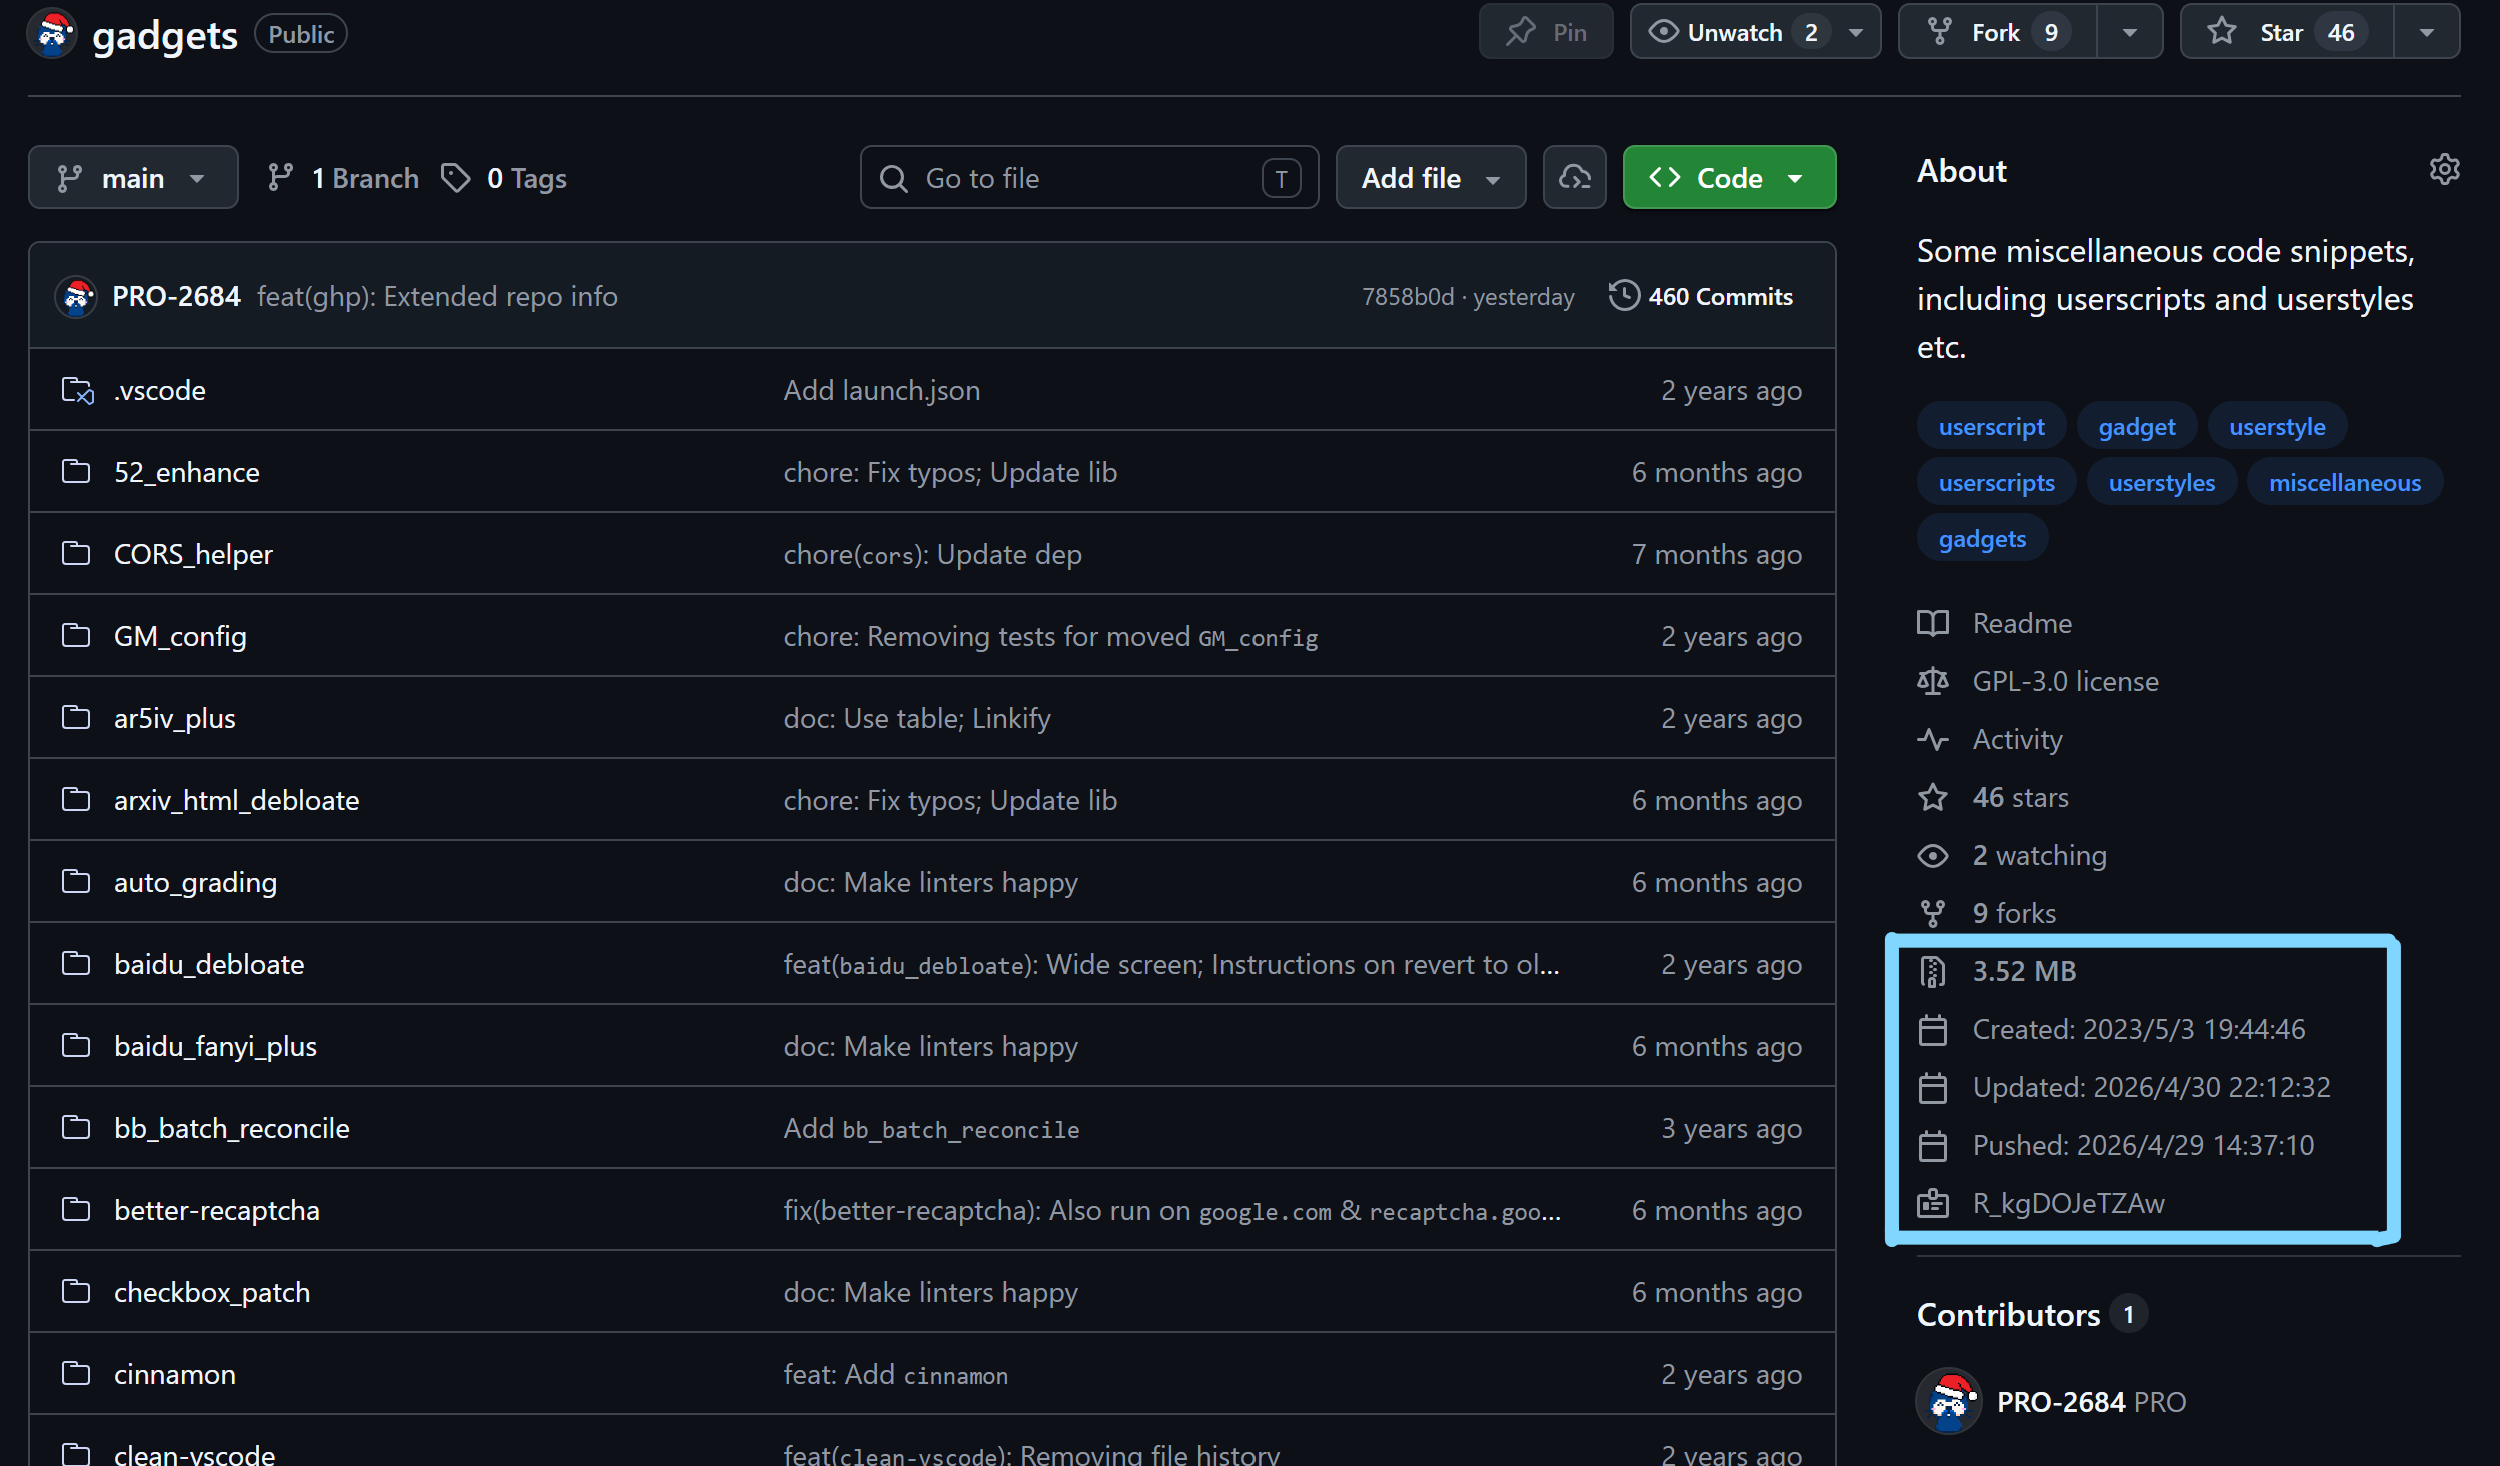
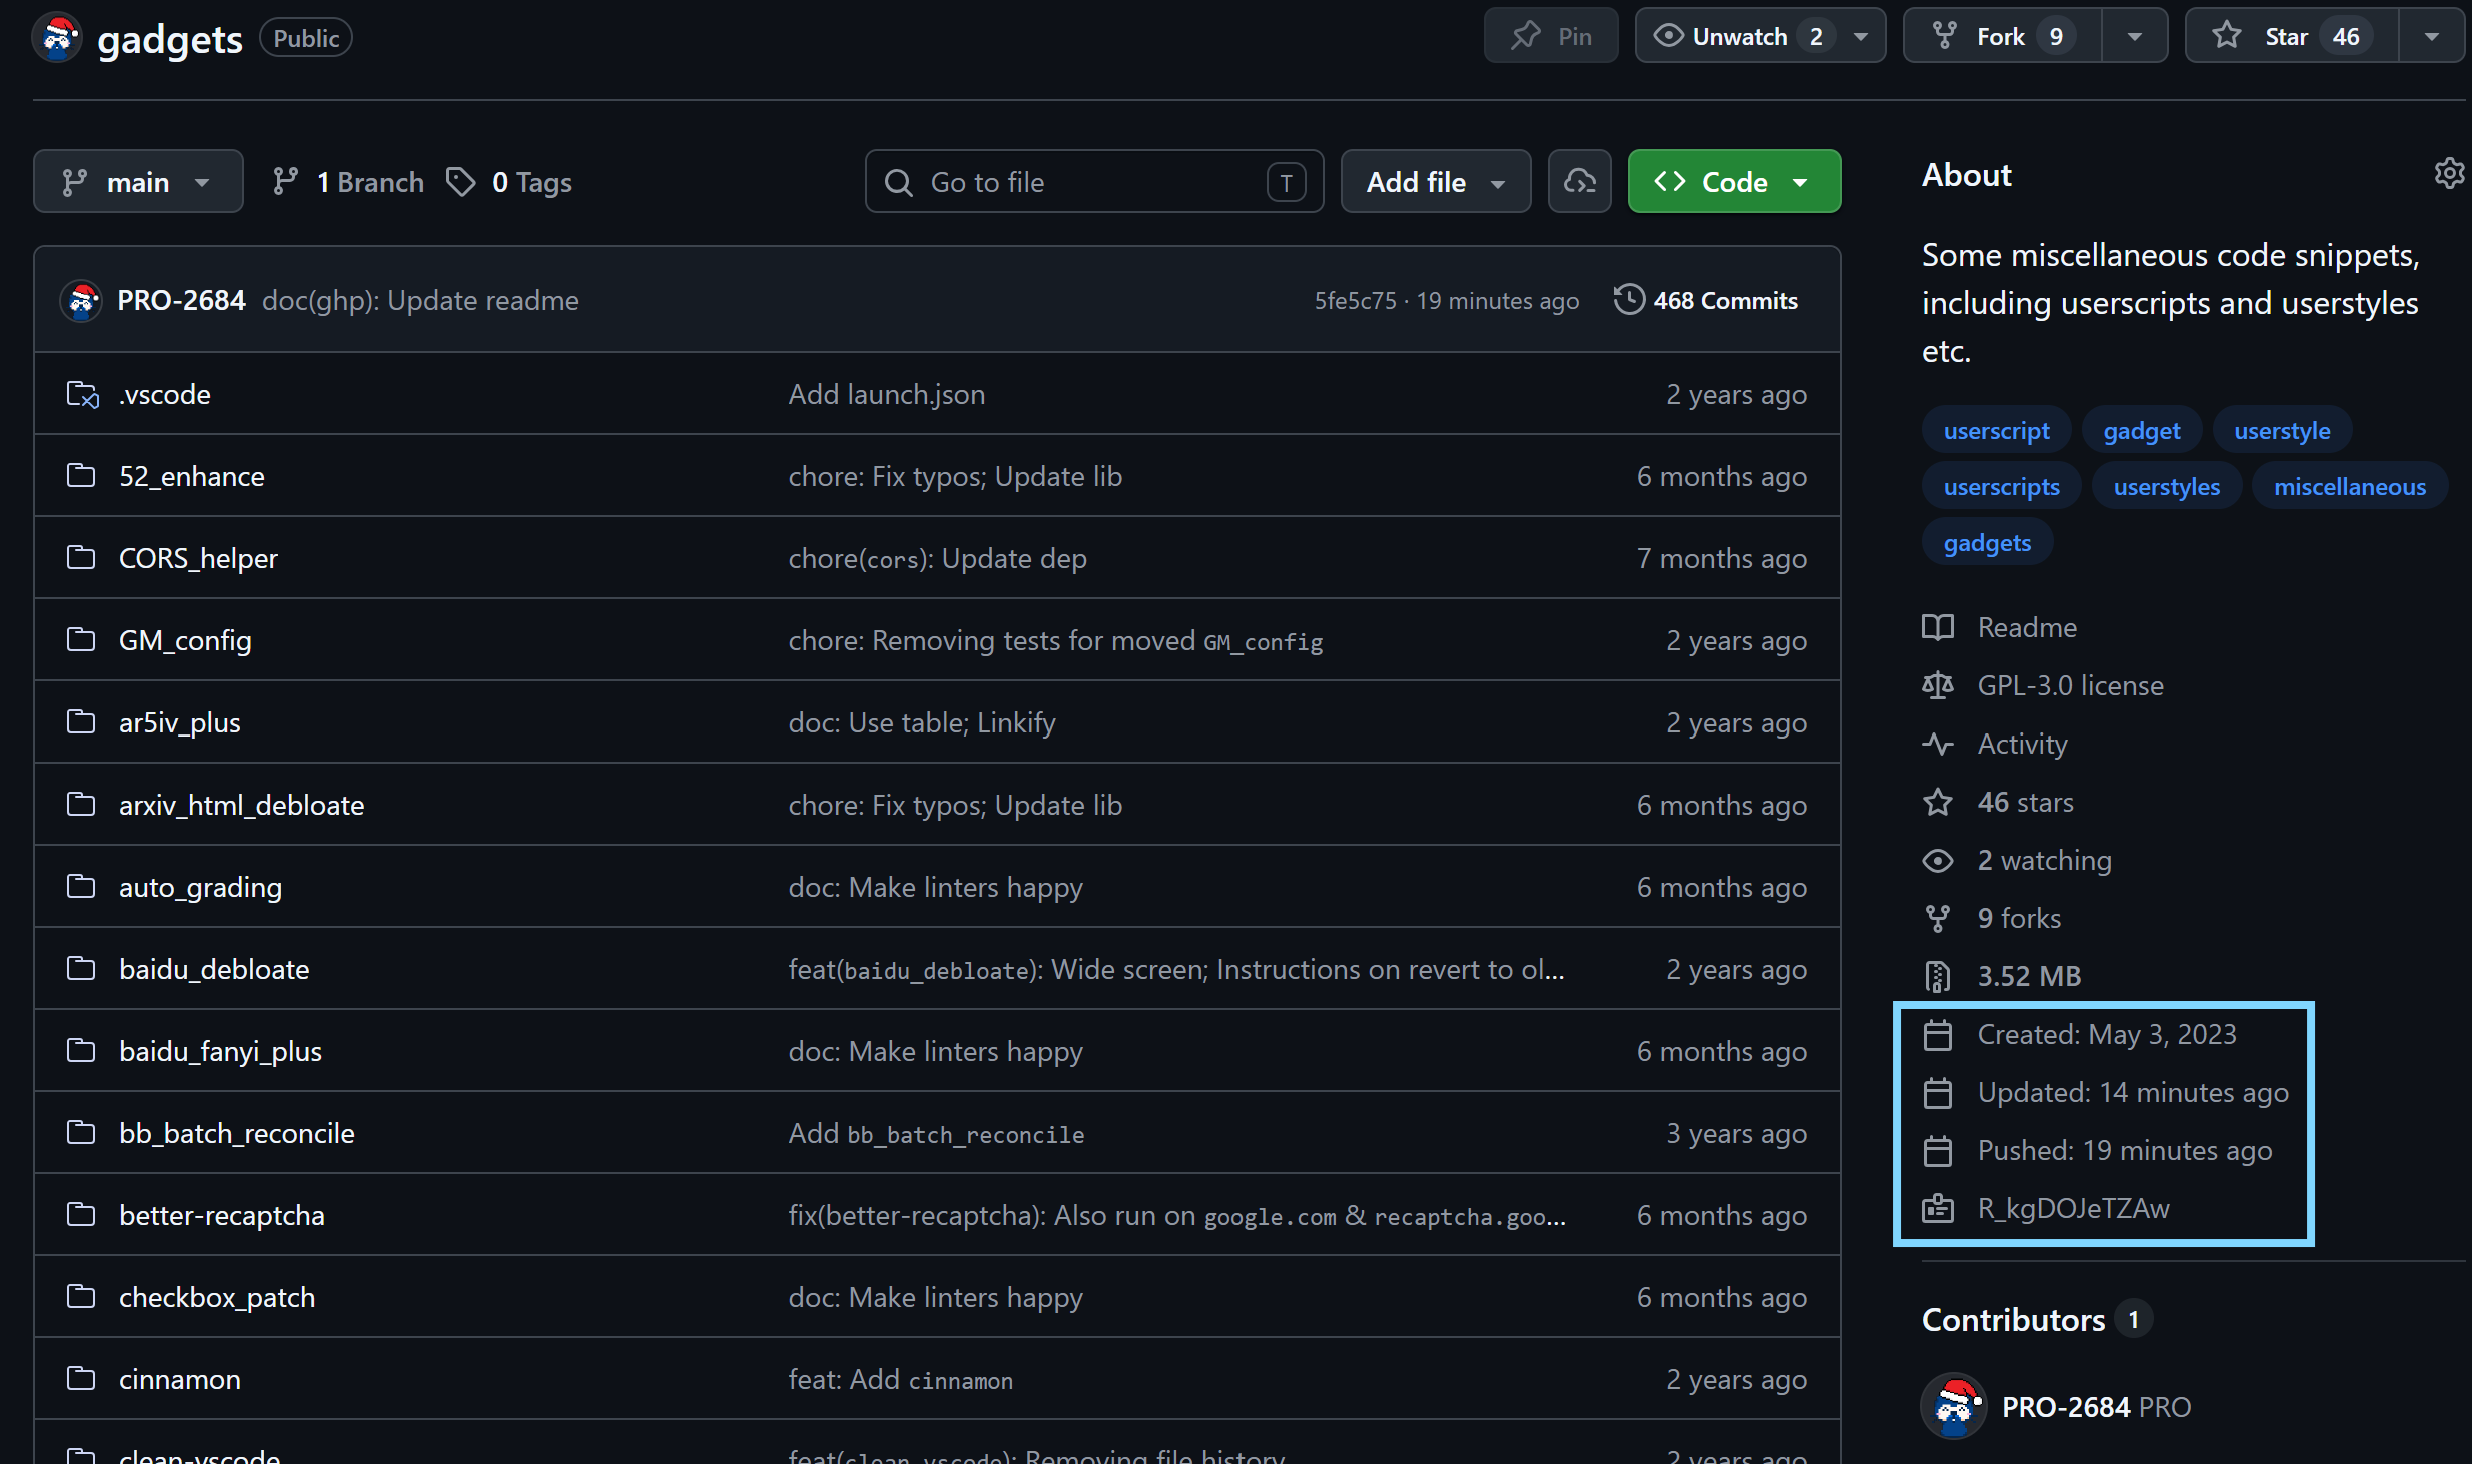
feat(ghp): Using [`relative-time`](https://github.com/github/relative-time-element)

diff --git a/github_plus/ghp.js b/github_plus/ghp.js
@@ -2,7 +2,7 @@
 // @name         GitHub Plus
 // @name:zh-CN   GitHub 增强
 // @namespace    http://tampermonkey.net/
-// @version      0.5.1
+// @version      0.5.2
 // @description  Enhance GitHub with additional features.
 // @description:zh-CN 为 GitHub 增加额外的功能。
 // @author       PRO-2684
@@ -1065,6 +1065,18 @@
         file_zip:
             '<svg xmlns="http://www.w3.org/2000/svg" viewBox="0 0 16 16" width="16" height="16"><path d="M3.5 1.75v11.5c0 .09.048.173.126.217a.75.75 0 0 1-.752 1.298A1.748 1.748 0 0 1 2 13.25V1.75C2 .784 2.784 0 3.75 0h5.586c.464 0 .909.185 1.237.513l2.914 2.914c.329.328.513.773.513 1.237v8.586A1.75 1.75 0 0 1 12.25 15h-.5a.75.75 0 0 1 0-1.5h.5a.25.25 0 0 0 .25-.25V4.664a.25.25 0 0 0-.073-.177L9.513 1.573a.25.25 0 0 0-.177-.073H7.25a.75.75 0 0 1 0 1.5h-.5a.75.75 0 0 1 0-1.5h-3a.25.25 0 0 0-.25.25Zm3.75 8.75h.5c.966 0 1.75.784 1.75 1.75v3a.75.75 0 0 1-.75.75h-2.5a.75.75 0 0 1-.75-.75v-3c0-.966.784-1.75 1.75-1.75ZM6 5.25a.75.75 0 0 1 .75-.75h.5a.75.75 0 0 1 0 1.5h-.5A.75.75 0 0 1 6 5.25Zm.75 2.25h.5a.75.75 0 0 1 0 1.5h-.5a.75.75 0 0 1 0-1.5ZM8 6.75A.75.75 0 0 1 8.75 6h.5a.75.75 0 0 1 0 1.5h-.5A.75.75 0 0 1 8 6.75ZM8.75 3h.5a.75.75 0 0 1 0 1.5h-.5a.75.75 0 0 1 0-1.5ZM8 9.75A.75.75 0 0 1 8.75 9h.5a.75.75 0 0 1 0 1.5h-.5A.75.75 0 0 1 8 9.75Zm-1 2.5v2.25h1v-2.25a.25.25 0 0 0-.25-.25h-.5a.25.25 0 0 0-.25.25Z"></path></svg>',
     };
+    /**
+     * Uses `relative-time` element to format the given timestamp.
+     * @param {number} timestamp The timestamp to format.
+     * @return {string} The HTML string of the formatted relative time.
+     */
+    function relativeTime(timestamp) {
+        // Convert timestamp to ISO 8601 formatted timestamp
+        const date = new Date(timestamp);
+        const iso = date.toISOString();
+        const fallback = date.toLocaleString();
+        return `<relative-time prefix="" datetime="${iso}">${fallback}</relative-time>`;
+    }
     function extendedUserInfo() {
         const profile = $(
             ".js-profile-editable-replace .js-profile-editable-area > ul.vcard-details",
@@ -1108,10 +1120,10 @@
             return `${repos}, ${gists}`;
         });
         addInfoRow("calendar", "Joined", (info) =>
-            new Date(info.created_at).toLocaleString(),
+            relativeTime(info.created_at),
         );
         addInfoRow("calendar", "Updated", (info) =>
-            new Date(info.updated_at).toLocaleString(),
+            relativeTime(info.updated_at),
         );
         addInfoRow("id_badge", "Node ID", (info) => info.node_id);
     }
@@ -1150,7 +1162,7 @@
                 warn("Failed to fetch repository info:", error);
                 return null;
             });
-        function addRow(icon_name, name, text_cb, title_cb = null) {
+        function addRow(icon_name, name, html_cb, title_cb = null) {
             const h3 = document.createElement("h3");
             h3.classList.add("sr-only", "ghp-extended-repo-info");
             h3.textContent = name;
@@ -1173,7 +1185,7 @@
             }
             fetchPromise.then((info) => {
                 if (info) {
-                    entry.innerHTML = `${icon} ${text_cb(info)}`;
+                    entry.innerHTML = `${icon} ${html_cb(info)}`;
                     if (title_cb) {
                         entry.title = title_cb(info);
                     }
@@ -1209,20 +1221,17 @@
             addRow(
                 "calendar",
                 "Created",
-                (info) =>
-                    "Created: " + new Date(info.created_at).toLocaleString(),
+                (info) => "Created: " + relativeTime(info.created_at),
             );
             addRow(
                 "calendar",
                 "Updated",
-                (info) =>
-                    "Updated: " + new Date(info.updated_at).toLocaleString(),
+                (info) => "Updated: " + relativeTime(info.updated_at),
             );
             addRow(
                 "calendar",
                 "Pushed",
-                (info) =>
-                    "Pushed: " + new Date(info.pushed_at).toLocaleString(),
+                (info) => "Pushed: " + relativeTime(info.pushed_at),
             );
             addRow("id_badge", "Node ID", (info) => info.node_id);
         }
